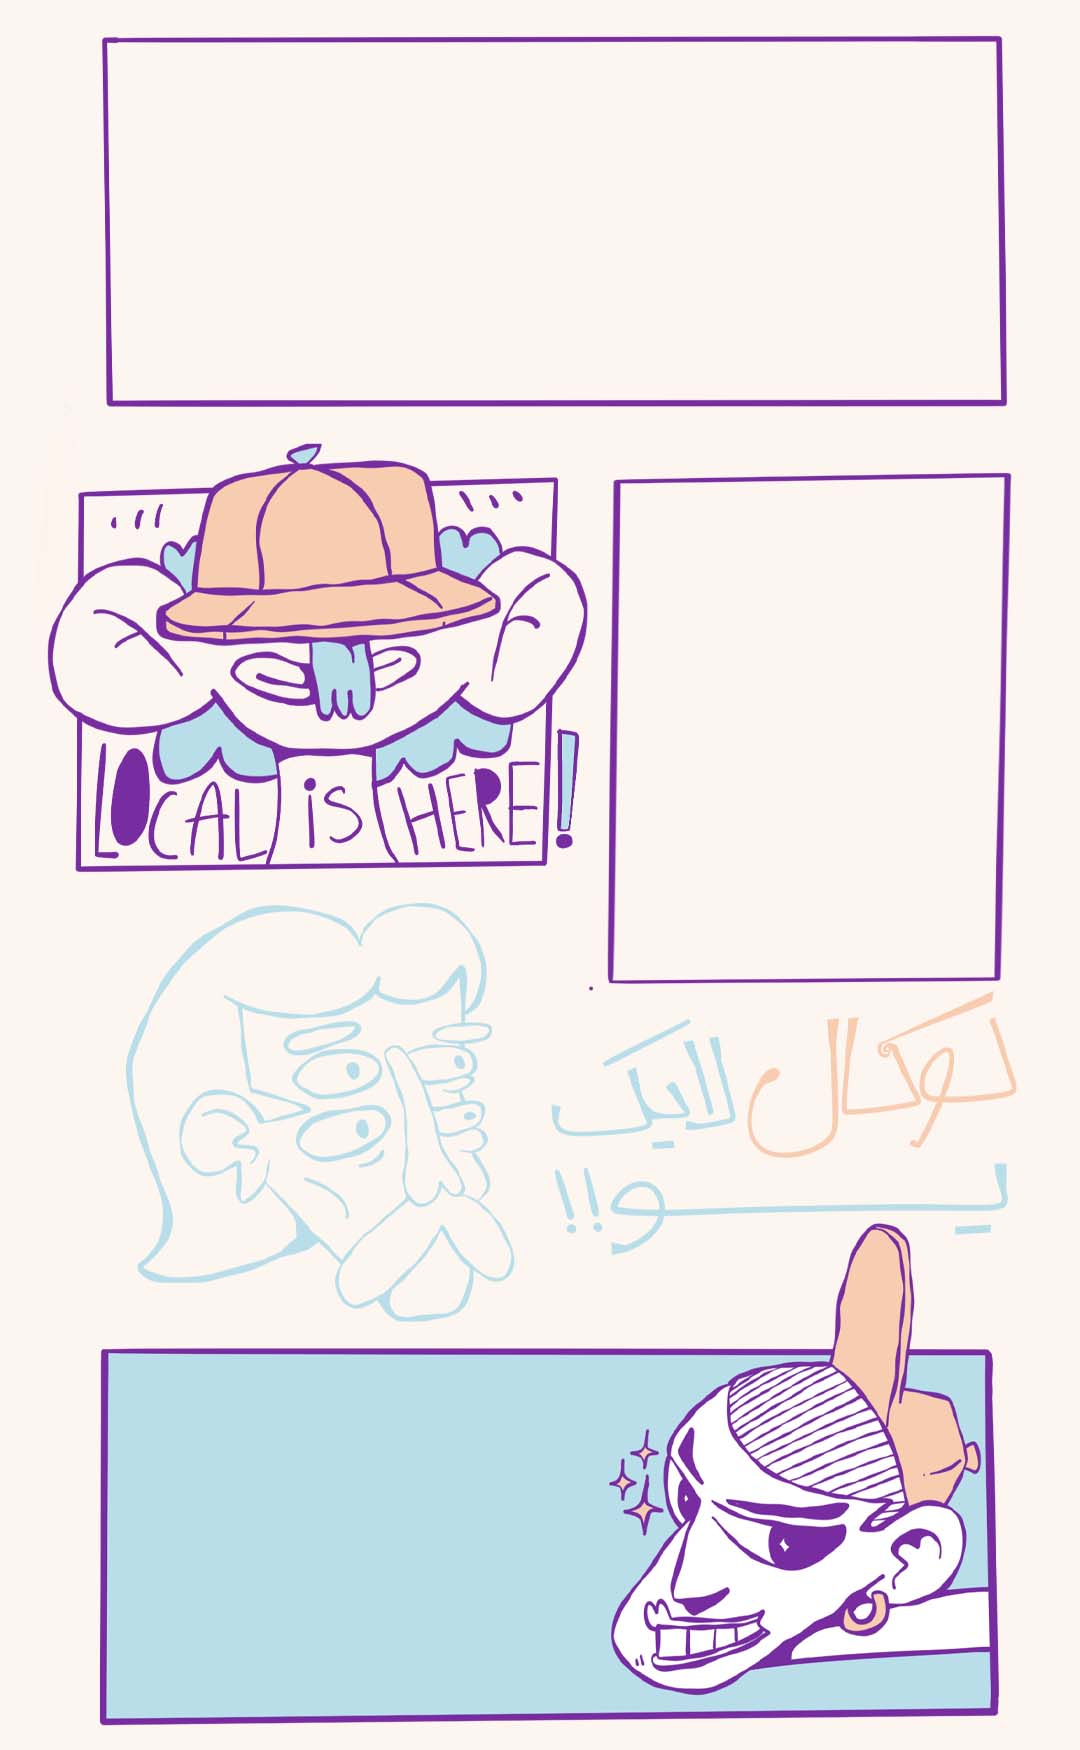
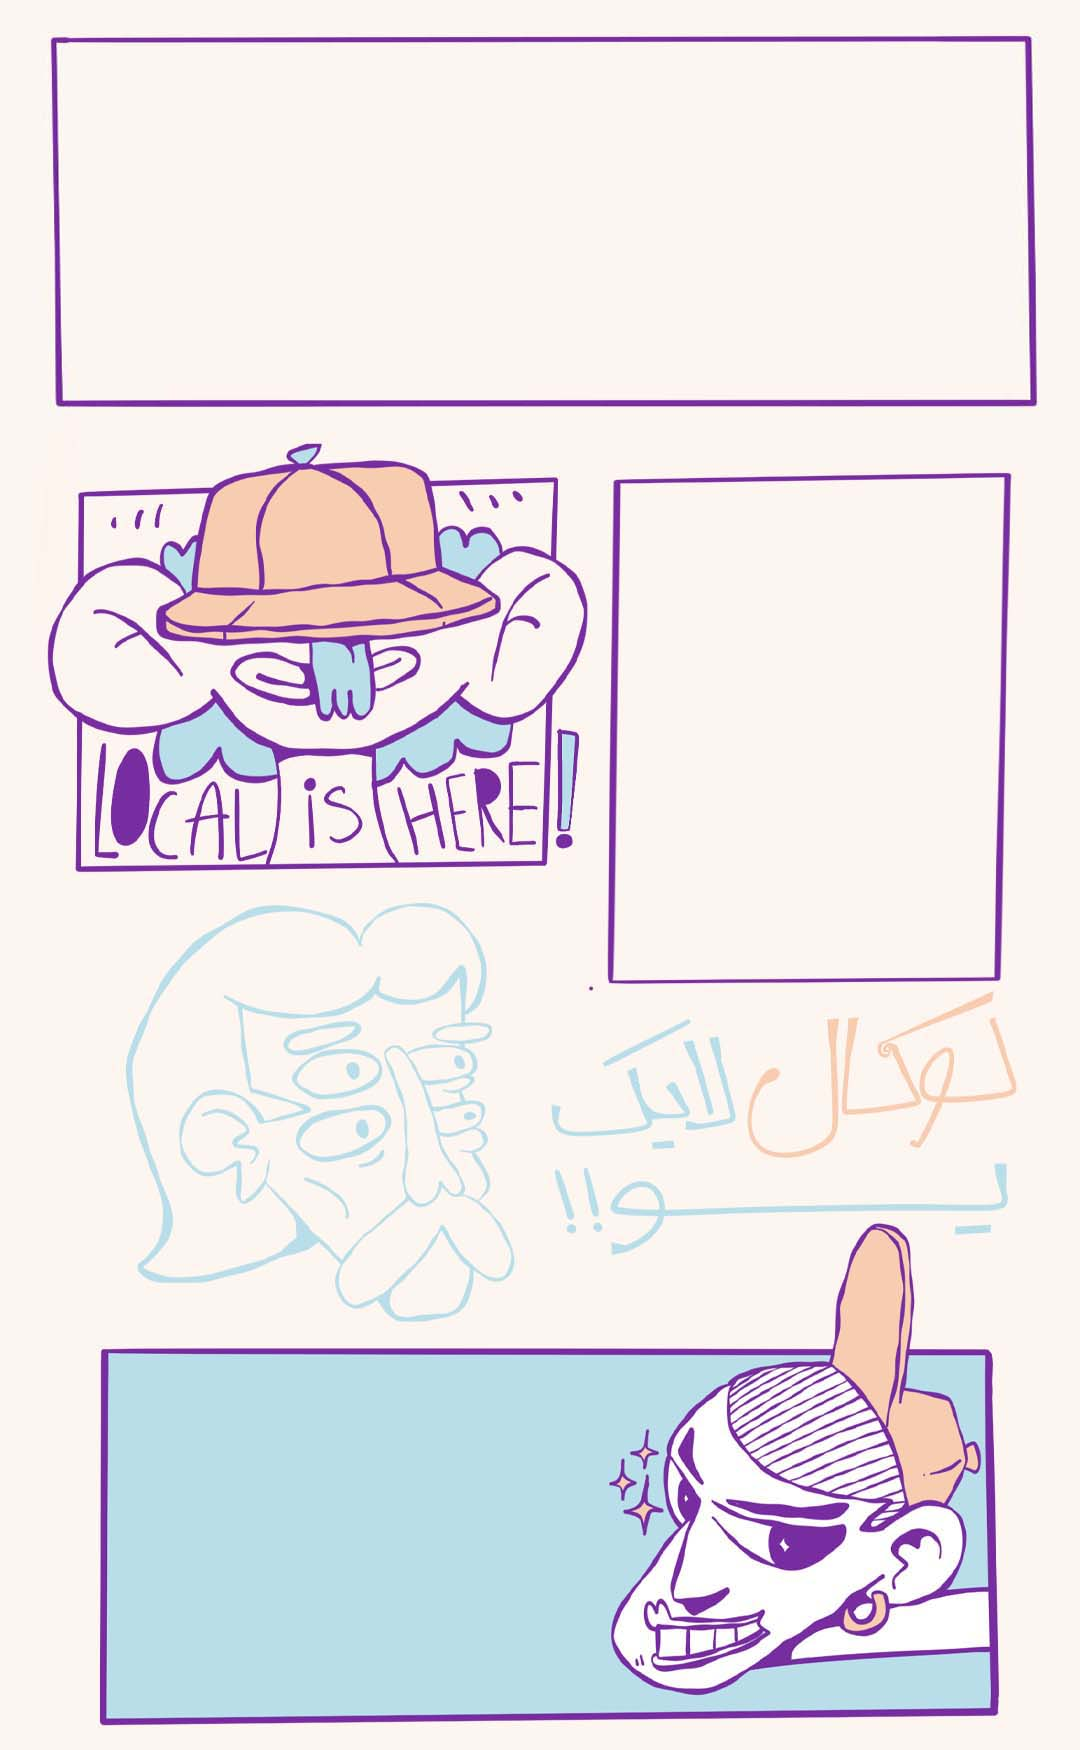
fixed cold bar width

Changed region(s): [[0.9167, 0.0, 0.9778, 0.2469], [0.0306, 0.0309, 0.1222, 0.2469], [0.0611, 0.0, 0.0917, 0.0309]]

diff --git a/components/menu/menuCategories.tsx b/components/menu/menuCategories.tsx
@@ -70,11 +70,8 @@ export default function MenuCategories() {
           </div>
         </div> :
         <div className="flex flex-col relative">
-          <div className="w-full aspect-1080/1842 relative">
+          <div className="w-full aspect-1080/2340 relative">
             <Image src="/menu1.jpg" fill alt="پس زمینه منو" />
-          </div>
-          <div className="w-full aspect-1080/498 relative">
-            <Image src="/menu2.jpg" fill alt="پس زمینه منو" />
           </div>
           <div className="w-full aspect-1080/532 relative">
             <Image src="/menu3.jpg" fill alt="پس زمینه منو" />
@@ -230,9 +227,9 @@ export default function MenuCategories() {
               //cold bar
               if (category._id == "69f9e427024e37a42754636f") {
                 return (
-                  <div key={category._id} className="absolute top-[322vw] right-[13vw] w-[78vw] flex gap-[4vw]">
-                    <div className="space-y-[0.6vw] w-[28vw]">
-                      <h2 className="text-[4.5vw] mr-[-3vw]">{category.name}</h2>
+                  <div key={category._id} className="absolute top-[322vw] right-[8vw] w-[84vw] flex gap-[4vw]">
+                    <div className="space-y-[0.6vw] w-[40vw]">
+                      <h2 className="text-[4.5vw]">{category.name}</h2>
                       {items.filter((item,index) => index<3).map((item: Item) => {
                         return (
                           <div key={item._id} className={`flex justify-between text-[3.8vw] ${item.available? "" : " line-through"}`}>
